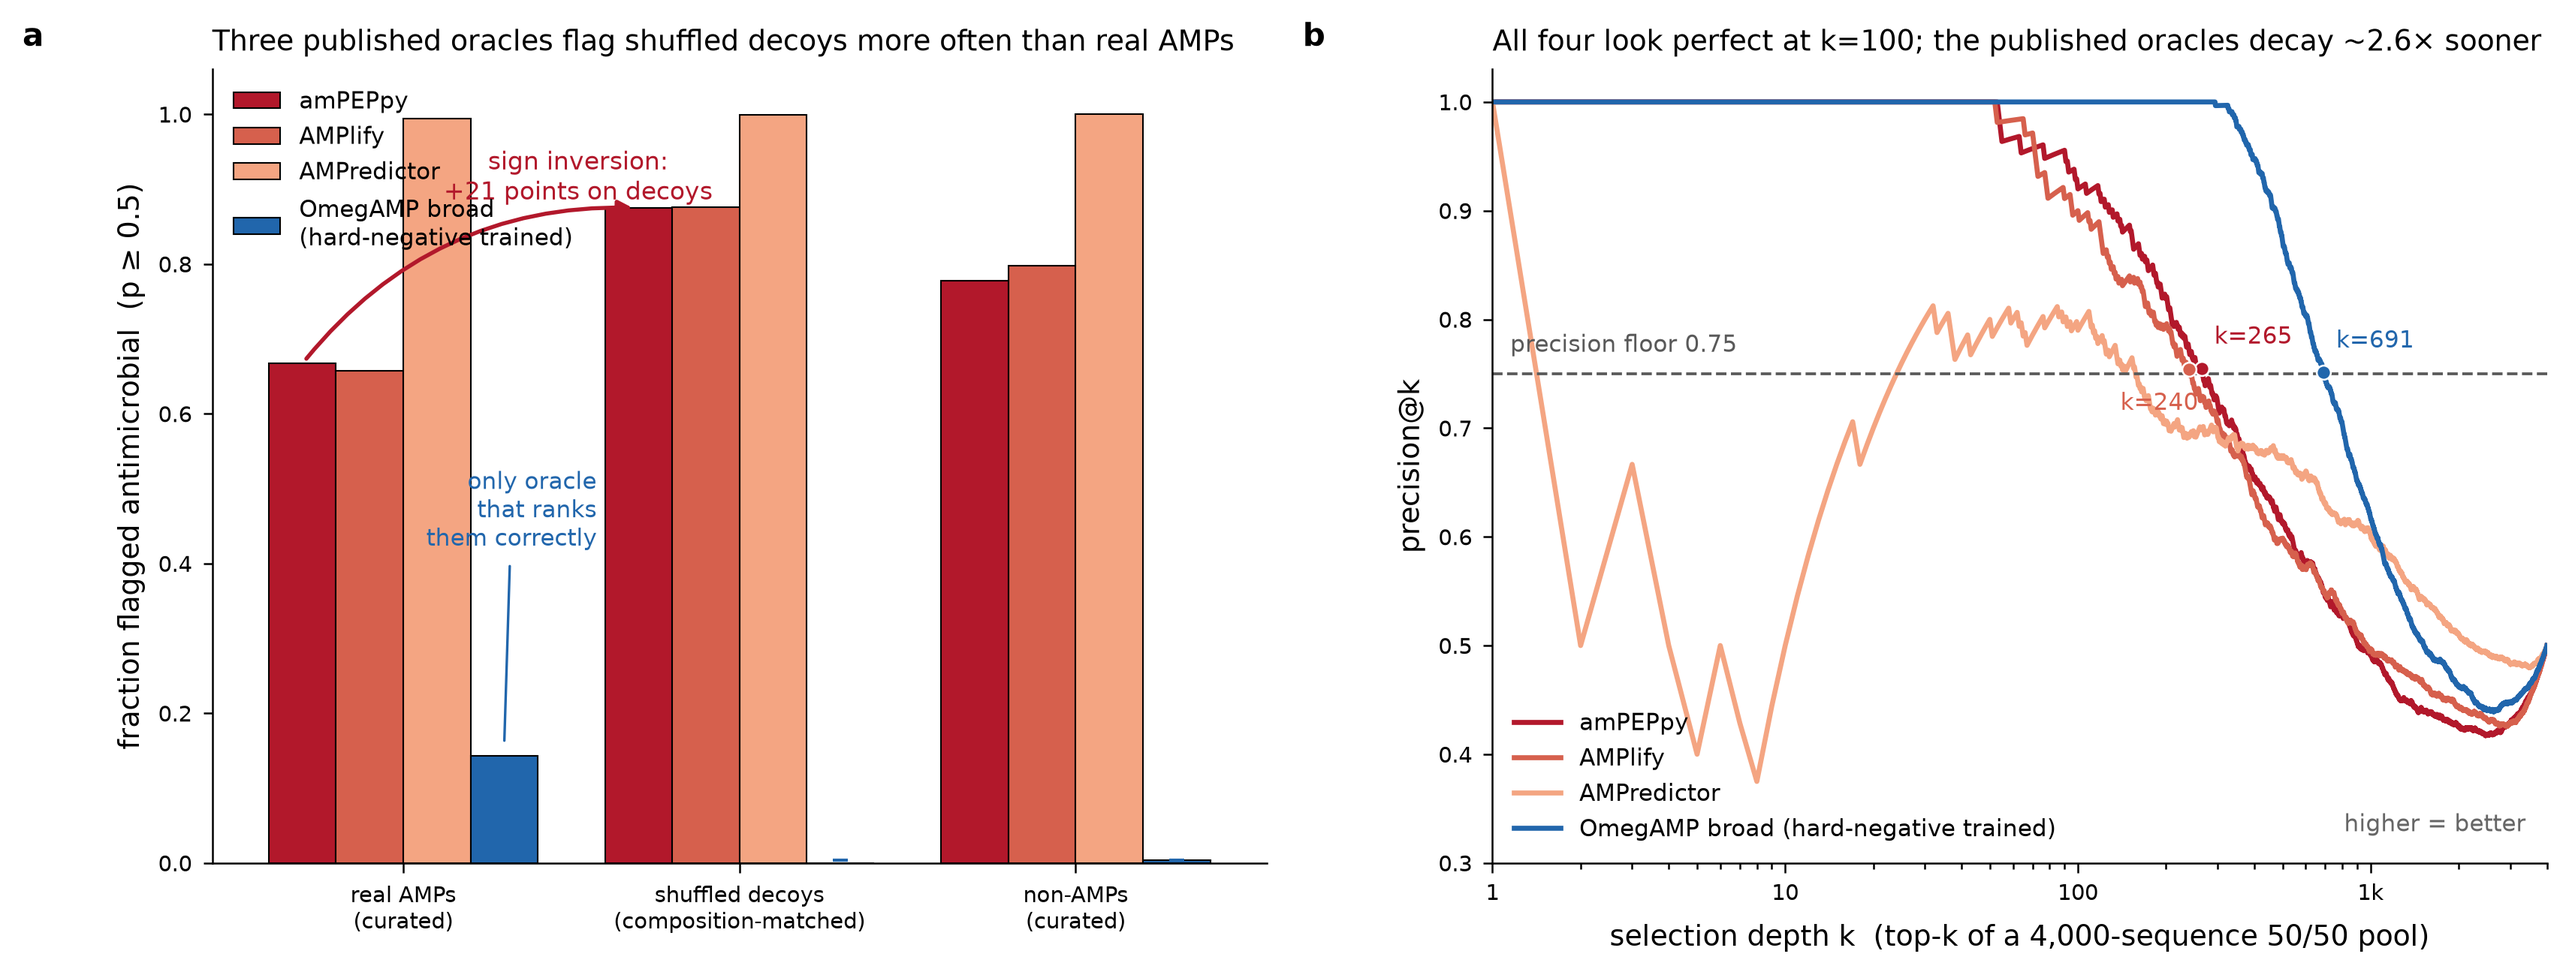
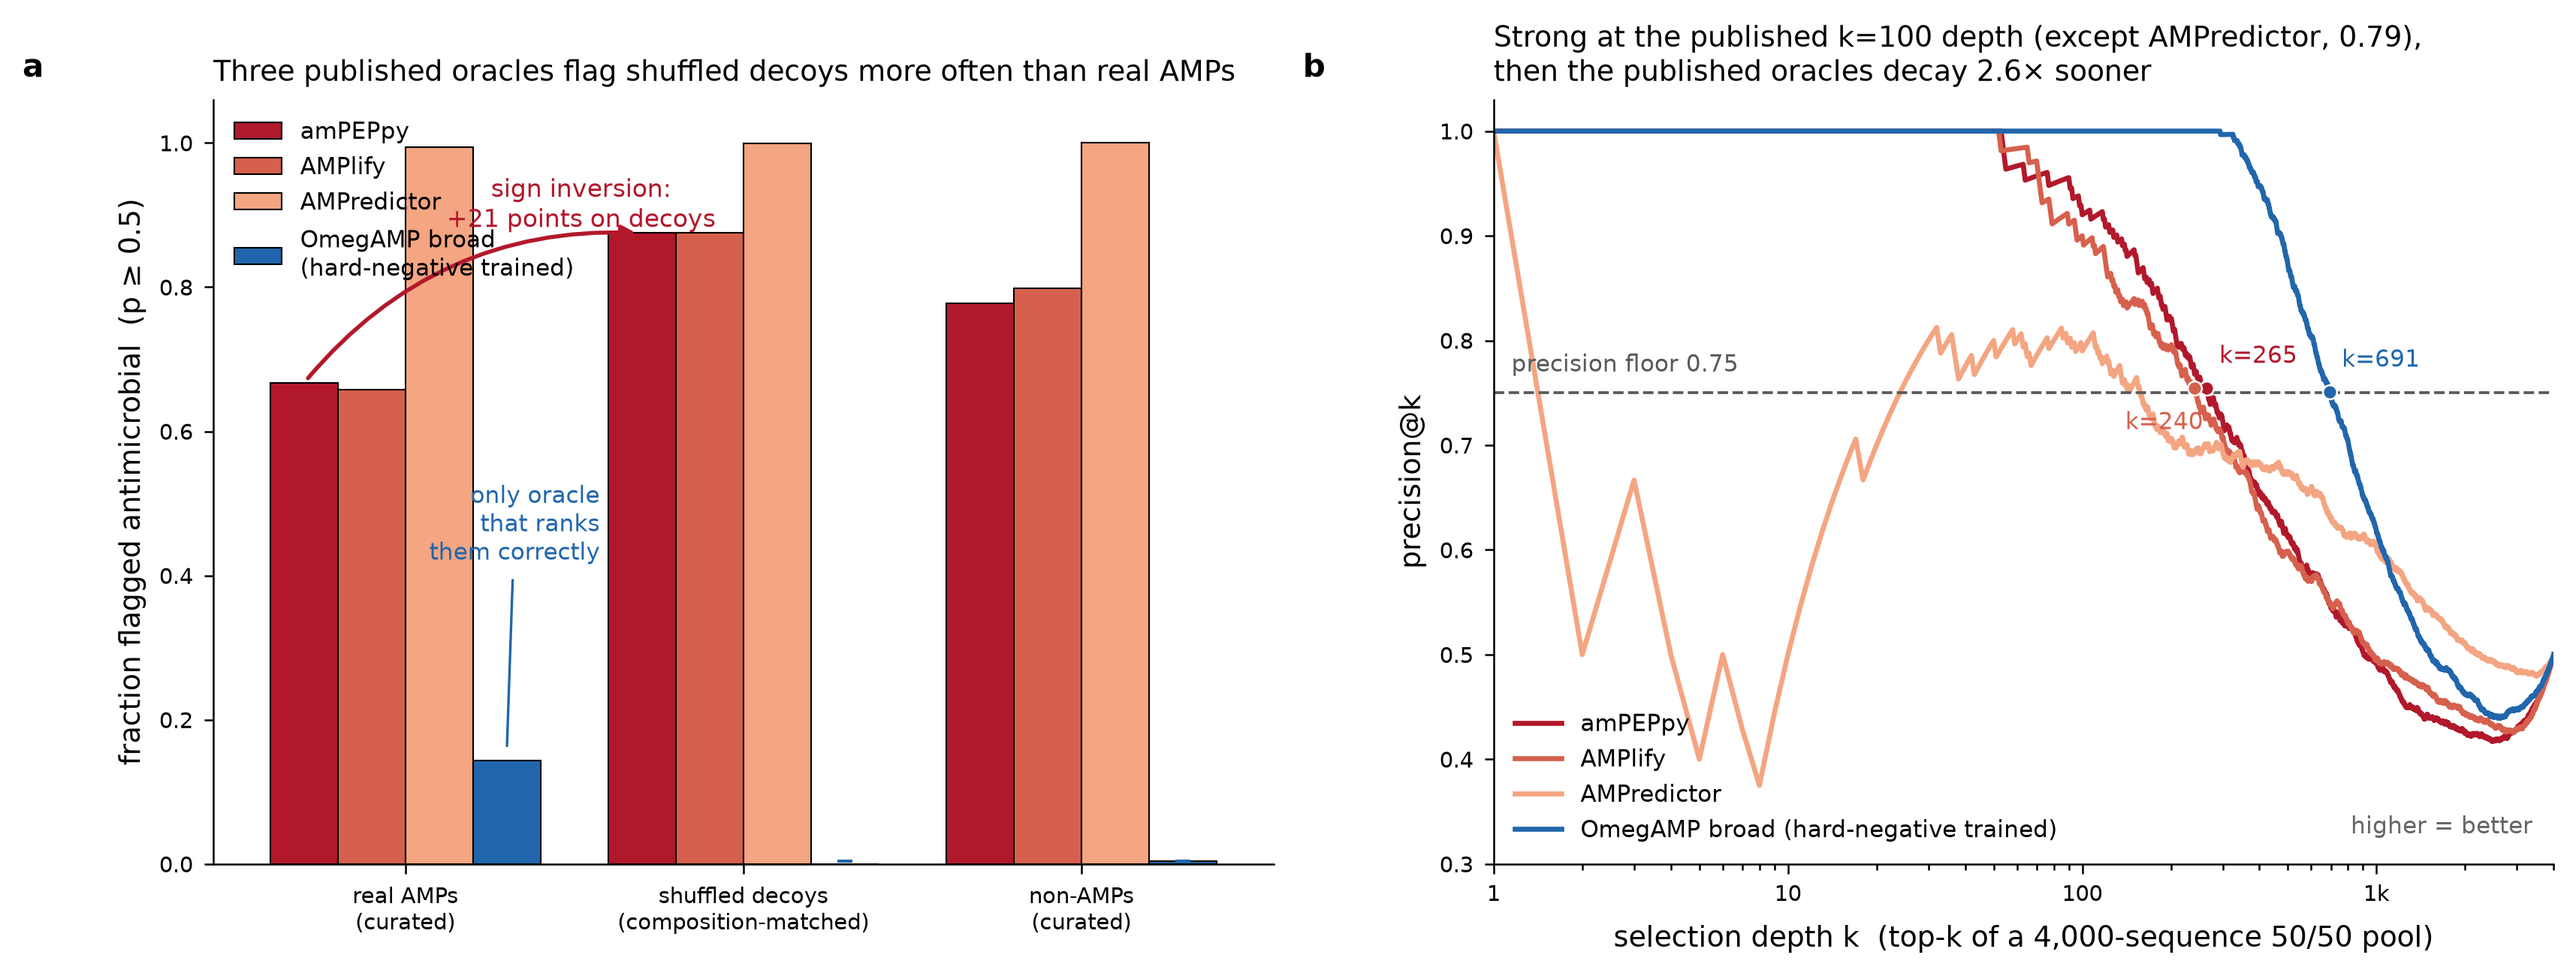
Corrected depth numbers (k=240/265 vs 691, 2.6x), Valency grounding, one-pager, video script, dataset link

diff --git a/package/README_hf.md b/package/README_hf.md
@@ -1,0 +1,67 @@
+---
+license: cc-by-4.0
+tags: [antimicrobial-peptides, benchmark, model-evaluation, proteins, biology]
+pretty_name: Oracle Audit - AMP evaluation-oracle score set
+---
+
+# Data card — Oracle Audit: per-peptide scores from 16 in-silico AMP oracles
+
+**Files**
+| file | shape | description |
+|---|---|---|
+| `oracle_audit_scores_wide.csv` | 14,977 rows x 20 cols | one row per peptide; `sequence_id, cohort, sequence, length` + one column per oracle |
+| `oracle_audit_scores.parquet` | 239,632 rows | long format: `sequence_id, cohort, sequence, length, oracle, family, score` |
+| `oracle_audit_verdicts.csv` | 16 rows | per-oracle sign test + depth test verdicts |
+| `oracle_audit.py` | — | reusable diagnostics module + CLI |
+
+14,977 peptides x 16 oracles = 239,632 scores. No missing values.
+
+## Cohorts
+
+| cohort | n | what it is / how it was built |
+|---|---|---|
+| `markov_order3` | 2,000 | order-3 Markov chain fitted to AMP residue composition, sampled de novo |
+| `omegamp_uncond` | 2,000 | OmegAMP diffusion model, unconditional samples |
+| `omegamp_targeted` | 2,000 | OmegAMP diffusion model, species/strain-conditioned samples |
+| `protgpt2` | 2,000 | ProtGPT2 autoregressive protein LM samples, length-filtered to AMP range |
+| `esm2_gibbs` | 2,000 | ESM-2 masked-LM Gibbs sampling from AMP-like seeds |
+| `ref_MarLys_AMPs` | 2,000 | **positive reference**: curated real antimicrobial peptides |
+| `ref_shuffled_decoys` | 2,000 | **hard decoy reference**: per-sequence random permutations of the curated real AMPs — identical amino-acid composition and length, destroyed sequence order. A valid AMP oracle must score these *below* the real AMPs; a composition-only oracle cannot tell them apart |
+| `ref_nonAMPs` | 877 | **negative reference**: curated non-antimicrobial peptides |
+| `submitted_top100` | 100 | the top-100 peptides actually submitted to a real AMP design competition, selected from a 998,452-sequence pool by mean percentile rank of amPEPpy + AMPredictor |
+
+Sequence IDs are `<cohort>_<5-digit index>` and preserve the row order of the source `cohorts.json`.
+
+## Oracles
+
+**Family A — hard-negative-trained classifiers (13 columns, OmegAMP).** `broad-classifier`
+(general AMP activity), 5 `species-*-classifier` columns (*A. baumannii*, *E. coli*,
+*K. pneumoniae*, *P. aeruginosa*, *S. aureus*) and 7 `strains-*-classifier` columns (named ATCC
+strains). Scores are activity probabilities in [0, 1]. These models were trained with
+composition-matched/shuffled hard negatives in the negative set.
+
+**Family B — widely-used published classifiers (3 columns).** `ampeppy` (amPEPpy, random-forest
+AMP classifier), `amplify` (AMPlify, attentive BiLSTM), `ampredictor` (AMPredictor, graph/feature
+hybrid, score here used as an antimicrobial probability). Scores are probabilities in [0, 1];
+conventional decision threshold p >= 0.5.
+
+## Known caveats
+
+1. **Provenance / licence.** All oracle weights are the *original published checkpoints* obtained
+   from their respective publications and repositories (amPEPpy, AMPlify, AMPredictor, OmegAMP).
+   No model was retrained or fine-tuned here. The scores in this dataset are derived outputs; the
+   licences of the underlying models govern reuse of the models themselves, and anyone
+   redistributing the weights must consult each original licence. Cohort sequences derive from
+   public curated AMP databases and from the generative models named above.
+2. **`ampredictor` saturates.** It assigns p >= 0.5 to >99% of every cohort including curated
+   non-AMPs, so its threshold-level positive rate carries almost no information; its depth-test
+   curve is the informative diagnostic.
+3. **Scores are not calibrated across families.** Family A probabilities are far lower in absolute
+   terms than Family B's for the same peptide. Compare *ranks and orderings within an oracle*, not
+   raw values across oracles.
+4. **Shuffled decoys are a composition control, not a biological negative.** A shuffle can in
+   principle be active; the claim this dataset supports is about *ordering* (real AMPs should
+   outrank their own shuffles on average), not about any single decoy.
+5. **Tie handling.** Several oracles produce heavily tied scores. `depth_test` breaks ties with a
+   fixed random permutation (seed 0), which is the conservative choice; precision@k values can
+   shift by a few percent under a different tie rule.

diff --git a/README.md b/README.md
@@ -8,7 +8,7 @@ Submission to the Open Scientific Intelligence (OSI) Hackathon 2026 — bucket: 
 
 Generative AMP design is scored almost entirely by *in-silico oracles*: published AMP classifiers that
 stand in for a wet-lab MIC assay. We audited two families of these oracles against the same
-14,977-sequence cohort set and found that **they disagree in sign on the central validity contrast.**
+14,977-sequence cohort set (9 cohorts, 16 oracles) and found that **they disagree in sign on the central validity contrast.**
 
 At the conventional `p >= 0.5` threshold:
 
@@ -25,14 +25,22 @@ rewarded for reproducing amino-acid composition, not for activity. Hard-negative
 
 ## Why it has gone unnoticed: selection depth
 
-Both families look fine at the depth their own papers report. Screening real AMPs out of a 50/50 pool
-against shuffled decoys, **every oracle reaches precision@100 = 1.00** — and precision@100 is the
-standard reported metric. The families separate only deeper in the ranking: precision falls below 0.75
-at k = 125 (AMPredictor) and k = 342 (amPEPpy), versus k = 729 for OmegAMP's broad classifier.
+The published oracles look strong at the depth their own papers report. Screening real AMPs out of a
+4,000-sequence 50/50 pool against shuffled decoys, amPEPpy reaches precision@100 = 0.92 and AMPlify
+0.90, against 1.00 for OmegAMP's broad classifier (AMPredictor is already at 0.79). Precision@100 is
+the standard reported metric, and at that depth the three look comparable.
 
-Real pipelines select far deeper than k = 100. A submission pipeline we examined selected the top
-50,000 of a 998,452-sequence pool by mean percentile rank of amPEPpy + AMPredictor — a depth at which
-those oracles are near chance on the decoy contrast.
+The families separate deeper in the ranking. Precision falls below 0.75 at **k = 265** (amPEPpy) and
+**k = 240** (AMPlify), versus **k = 691** for OmegAMP's broad classifier — a 2.6x difference in usable
+selection depth, invisible at the depth everyone reports. AMPredictor never clears the floor at all:
+it flags >99% of every cohort, real or shuffled.
+
+Across all 16 oracles the split is clean: **3 of 3 Family-B oracles are sign-inverted; 13 of 13
+Family-A oracles are not.**
+
+Real campaigns do not stop at a hundred. A submission pipeline we examined selected the top
+50,000 of a 998,452-sequence pool by mean percentile rank of amPEPpy + AMPredictor — roughly 200x
+deeper than the depth at which those oracles still hold precision.
 
 ## What this repo gives you
 
@@ -49,6 +57,18 @@ those oracles are near chance on the decoy contrast.
 Deep filtering should use hard-negative-trained classifiers; Phase-1-style published oracles belong only
 in a shallow final re-rank; and every evaluation should hold out one oracle from each family as a
 cross-family control, with a composition-preserving shuffled-decoy cohort reported alongside.
+
+## Literature grounding (Valency Bond)
+
+We used the Valency Bond MCP connector to check how the field actually evaluates generators. Of 45
+screened corpus records, 30 both generate candidate peptides and evaluate them in silico; 28 of those
+30 do not name their evaluation oracle in the abstract, and **0 of 30 mention any decoy or
+composition-preserving shuffled-sequence control**. For the 5 most-cited papers we read the methods:
+all 5 score with their own internal classifier, 2 additionally apply published third-party oracles
+(HydrAMP: AMPlify, CAMPR3-rf, STM; AMP-Designer: CAMP, AMP Scanner, Macrel) — every one of which
+belongs to the single conventionally-trained family our audit shows is sign-inverted — and none
+applies a shuffled-sequence control. *More than one oracle is not more than one oracle family.*
+Screening of the other 25 papers is abstract-level, so "oracle not named" means not stated, not not used.
 
 ## Provenance
 

diff --git a/ONE_PAGER.md b/ONE_PAGER.md
@@ -1,0 +1,47 @@
+# Oracle Audit — the benchmark that scores shuffled decoys above real antimicrobial peptides
+
+**OSI Hackathon 2026 · bucket: Hypothesis Generation and Evaluation · solo team**
+Code: https://github.com/Rebell-Leader/oracle-audit · Live app: http://sciway.me/oracle-audit/ ·
+Dataset: https://huggingface.co/datasets/avaliev/oracle-audit-amp-scores
+
+![Oracle Audit figure](oracle_audit_figure.png)
+
+## Motivation
+Generative design of antimicrobial peptides (AMPs) is evaluated almost entirely by *in-silico oracles* —
+published AMP classifiers standing in for a wet-lab MIC assay. Leaderboards, competition rankings and
+"novel AMP discovered" claims rest on them. Nobody audits the oracle.
+
+## Problem definition
+We ran the simplest possible validity check on 16 oracles from two methodological families, over 9
+cohorts totalling 14,977 peptides: take 2,000 real curated AMPs, shuffle each one (same amino-acid
+composition, order destroyed), and ask whether the oracle still separates real from shuffled.
+
+## What we found
+**The two families disagree in sign.** At p >= 0.5, amPEPpy flags 87.5% of shuffled decoys and 77.8% of
+curated non-AMPs but only 66.8% of real AMPs; AMPlify 87.6 / 79.8 / 65.8. They rank decoys *above* the
+real thing. OmegAMP's hard-negative-trained classifier orders the same cohorts correctly: 0.0% / 0.3% /
+14.4%. Across all 16 oracles, 3 of 3 Family-B oracles are sign-inverted and 13 of 13 Family-A are not.
+A useful control: ProtGPT2 samples are rejected by both families, so Family B is not simply permissive —
+it is specifically blind to composition-preserving shuffles.
+
+**Selection depth explains why this survived review.** At the published precision@100 depth the oracles
+look comparable (0.92 amPEPpy, 0.90 AMPlify, 1.00 OmegAMP broad; AMPredictor 0.79). Precision falls
+below 0.75 at k = 265 and k = 240 for the published oracles, versus k = 691 — a 2.6x gap in usable depth,
+invisible at the reported depth. Real campaigns select far deeper: one pipeline we examined took the top
+50,000 of 998,452 candidates ranked by amPEPpy + AMPredictor.
+
+**The field does not run this check.** Via the Valency Bond connector: of 30 screened papers that
+generate and evaluate AMPs in silico, 0 report any composition-preserving decoy control; of the 5
+most-cited whose methods we read, every third-party oracle applied belongs to the inverted family.
+
+## What we built (all released)
+1. `oracle_audit.py` — a **sign test** and a **depth test** that run against any scorer, as a module and CLI.
+2. The **audit dataset** — per-peptide scores, 14,977 sequences x 16 oracles x 9 cohorts, with a data card.
+3. An **interactive marimo notebook** (WASM, no login, no server): pick an oracle, move the threshold,
+   watch the verdict and depth curve recompute live.
+
+## Recommendation
+Filter deep with hard-negative-trained classifiers; use published oracles only as a shallow final
+re-rank; always hold out one oracle per family as a cross-family control and report a
+shuffled-decoy cohort. Benchmarks now being designed for generative peptide discovery can adopt this in
+an afternoon — the audit is 40 lines of code against any scorer.

diff --git a/VIDEO_SCRIPT.md b/VIDEO_SCRIPT.md
@@ -20,21 +20,26 @@ composition-preserving shuffles."
 
 ## 1:20-2:10 — Why nobody caught it  [slide: Panel B, depth curve]
 "Here is why this survived peer review. Screen real AMPs out of a fifty-fifty pool against shuffled
-decoys and every oracle gets precision-at-100 of exactly one-point-zero. Precision-at-100 is the
-metric these papers report. The families only diverge deeper down the ranking. Precision falls below
-0.75 at k equals 125 for AMPredictor, 342 for amPEPpy — but 729 for the hard-negative classifier.
-Roughly a six-fold difference in usable selection depth, entirely invisible at the depth everyone
-reports."
+decoys and, at precision-at-100 — the depth these papers report — the oracles look comparable:
+nought-point-nine-two for amPEPpy, nought-point-nine-oh for AMPlify, one-point-zero for the
+hard-negative classifier. They only diverge deeper down the ranking. Precision falls below
+0.75 at k equals 265 for amPEPpy and 240 for AMPlify — but 691 for the hard-negative classifier.
+A two-point-six-fold difference in usable selection depth, invisible at the depth everyone reports.
+And AMPredictor never clears the floor at all: it flags over ninety-nine percent of every cohort,
+real or shuffled. Across all sixteen oracles the split is clean — three of three published oracles
+inverted, thirteen of thirteen hard-negative oracles correct."
 
 ## 2:10-2:50 — Why it matters now  [slide: the 50,000-of-998,452 number]
 "Real campaigns do not stop at a hundred. A submission pipeline we examined took the top fifty
 thousand from a pool of nine hundred ninety-eight thousand, ranked by two Family-B oracles averaged
-together — a depth where those oracles are near chance on the decoy contrast. Generative-peptide
+together — roughly two hundred times deeper than the depth at which those oracles still hold precision. Generative-peptide
 benchmarks are being built on this right now, and the leaderboard they produce may be ranking
 composition matching rather than activity."
-[If the Valency survey lands: "We surveyed the generative-AMP literature through Valency Bond — of N
-papers that generate and score candidates, M report only a single oracle family and J report any
-composition-preserving decoy control."]
+"We surveyed the literature through Valency Bond. Of thirty screened papers that generate and score
+AMPs in silico, zero report any composition-preserving decoy control. For the five most-cited we read
+the methods: every third-party oracle they apply — AMPlify, CAMP, AMP Scanner, Macrel, CAMPR3 —
+belongs to the one family our audit shows is inverted. More than one oracle is not more than one
+oracle family."
 
 ## 2:50-3:40 — What we built  [screen: live marimo app]
 "So we packaged the audit. Two diagnostics that run against any scorer: a sign test, and a depth test.

diff --git a/SUBMISSION_FORM.md b/SUBMISSION_FORM.md
@@ -1,0 +1,23 @@
+# OSI Hackathon 2026 — submission form answers
+
+**Project title:** Oracle Audit — the benchmark that scores shuffled decoys above real antimicrobial peptides
+**Bucket:** Hypothesis Generation and Evaluation
+**Code:** https://github.com/Rebell-Leader/oracle-audit
+**Live interactive app (no login):** http://sciway.me/oracle-audit/
+**Dataset:** https://huggingface.co/datasets/avaliev/oracle-audit-amp-scores
+**One-page summary:** https://github.com/Rebell-Leader/oracle-audit/blob/main/ONE_PAGER.md
+**Video:** (post publicly, paste link here)
+
+**Two-sentence summary.** In-silico AMP classifiers are the de-facto scoring function for generative
+peptide design; we audited 16 of them over 14,977 peptides and found the three most widely used ones
+rank composition-preserving shuffled decoys *above* real curated AMPs (87.5% vs 66.8% at p>=0.5), while
+hard-negative-trained classifiers order the same cohorts correctly. We release the two diagnostics that
+expose this (a sign test and a selection-depth test, runnable against any scorer), the full score
+dataset, and an interactive marimo notebook that recomputes the verdict live.
+
+**Sponsor tracks used.**
+- **Valency (Bond MCP):** literature grounding — `semantic_search_papers` (8 queries) and
+  `search_by_abstract` (4 queries) over 221 corpus records; 45 screened, 30 generative+in-silico, 0 of
+  30 reporting a composition-preserving decoy control. Table: `lit/oracle_practice_survey.csv`.
+- **Marimo:** the interactive audit notebook, exported to WASM and served with no login or server.
+- **Hugging Face:** the audit dataset released as a public dataset with a data card.
